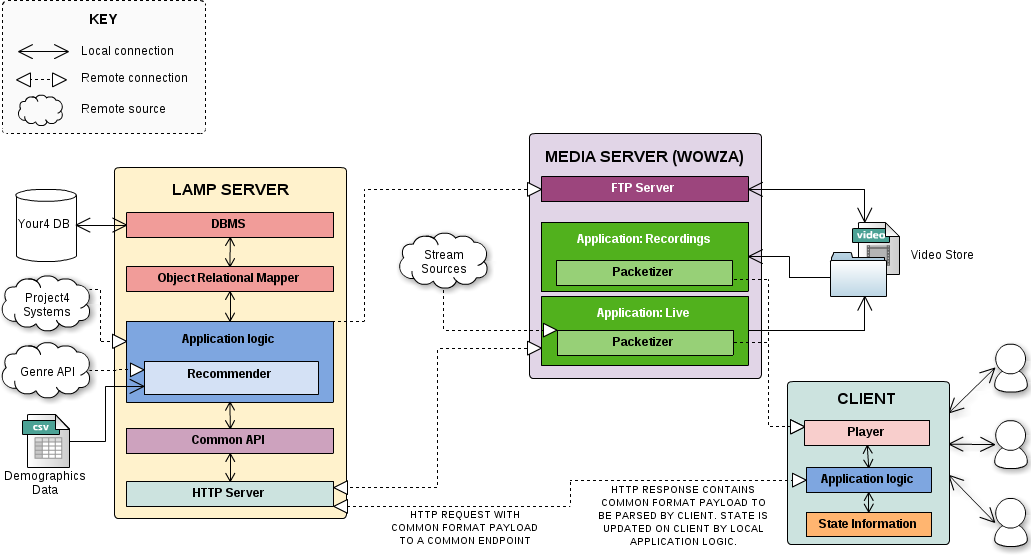
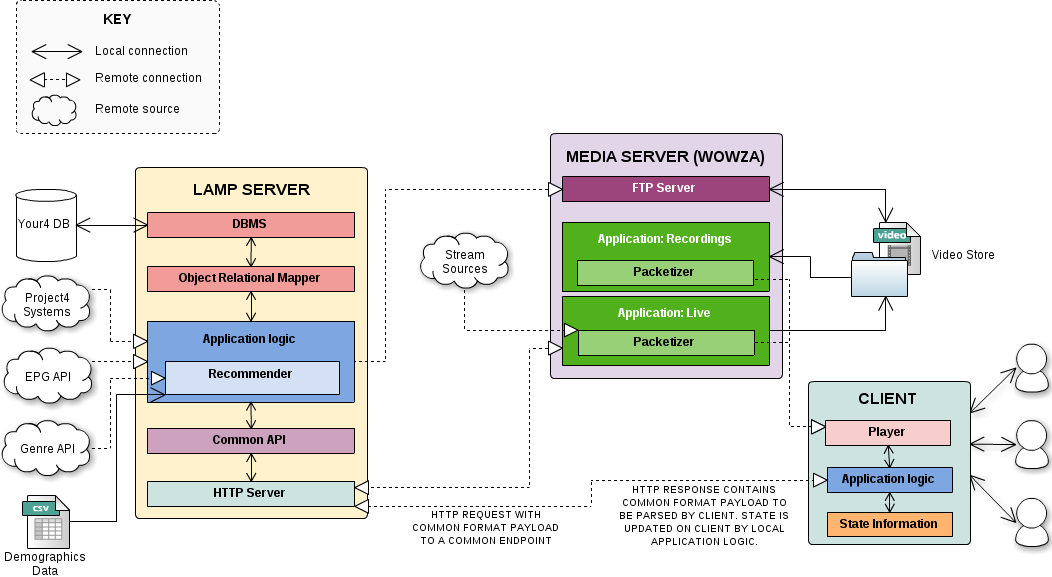
added atlas to architecture diagram

diff --git a/docs/Implementation.tex b/docs/Implementation.tex
@@ -13,7 +13,7 @@ Figure~\ref{your4-architecture} shows the overall architecture of the Your4 syst
 
 \begin{description}
 	\item[Client] The client (expected to be Mobile Safari for iPad running on top of iOS 5+) is responsible for for interfacing with the LAMP server to retrieve the users' personalised playlist. With this playlist, the player in the client can then request the appropriate media from the media server.
-	\item[LAMP server] The LAMP ()
+	\item[LAMP server] The LAMP server represents the bulk of the system and is responsible for providing a REST API for the key features of Your4: Playlist recommendations, user authentication, electronic programme guide (EPG) data
 \end{description}
 
 \subsubsection{Client}
